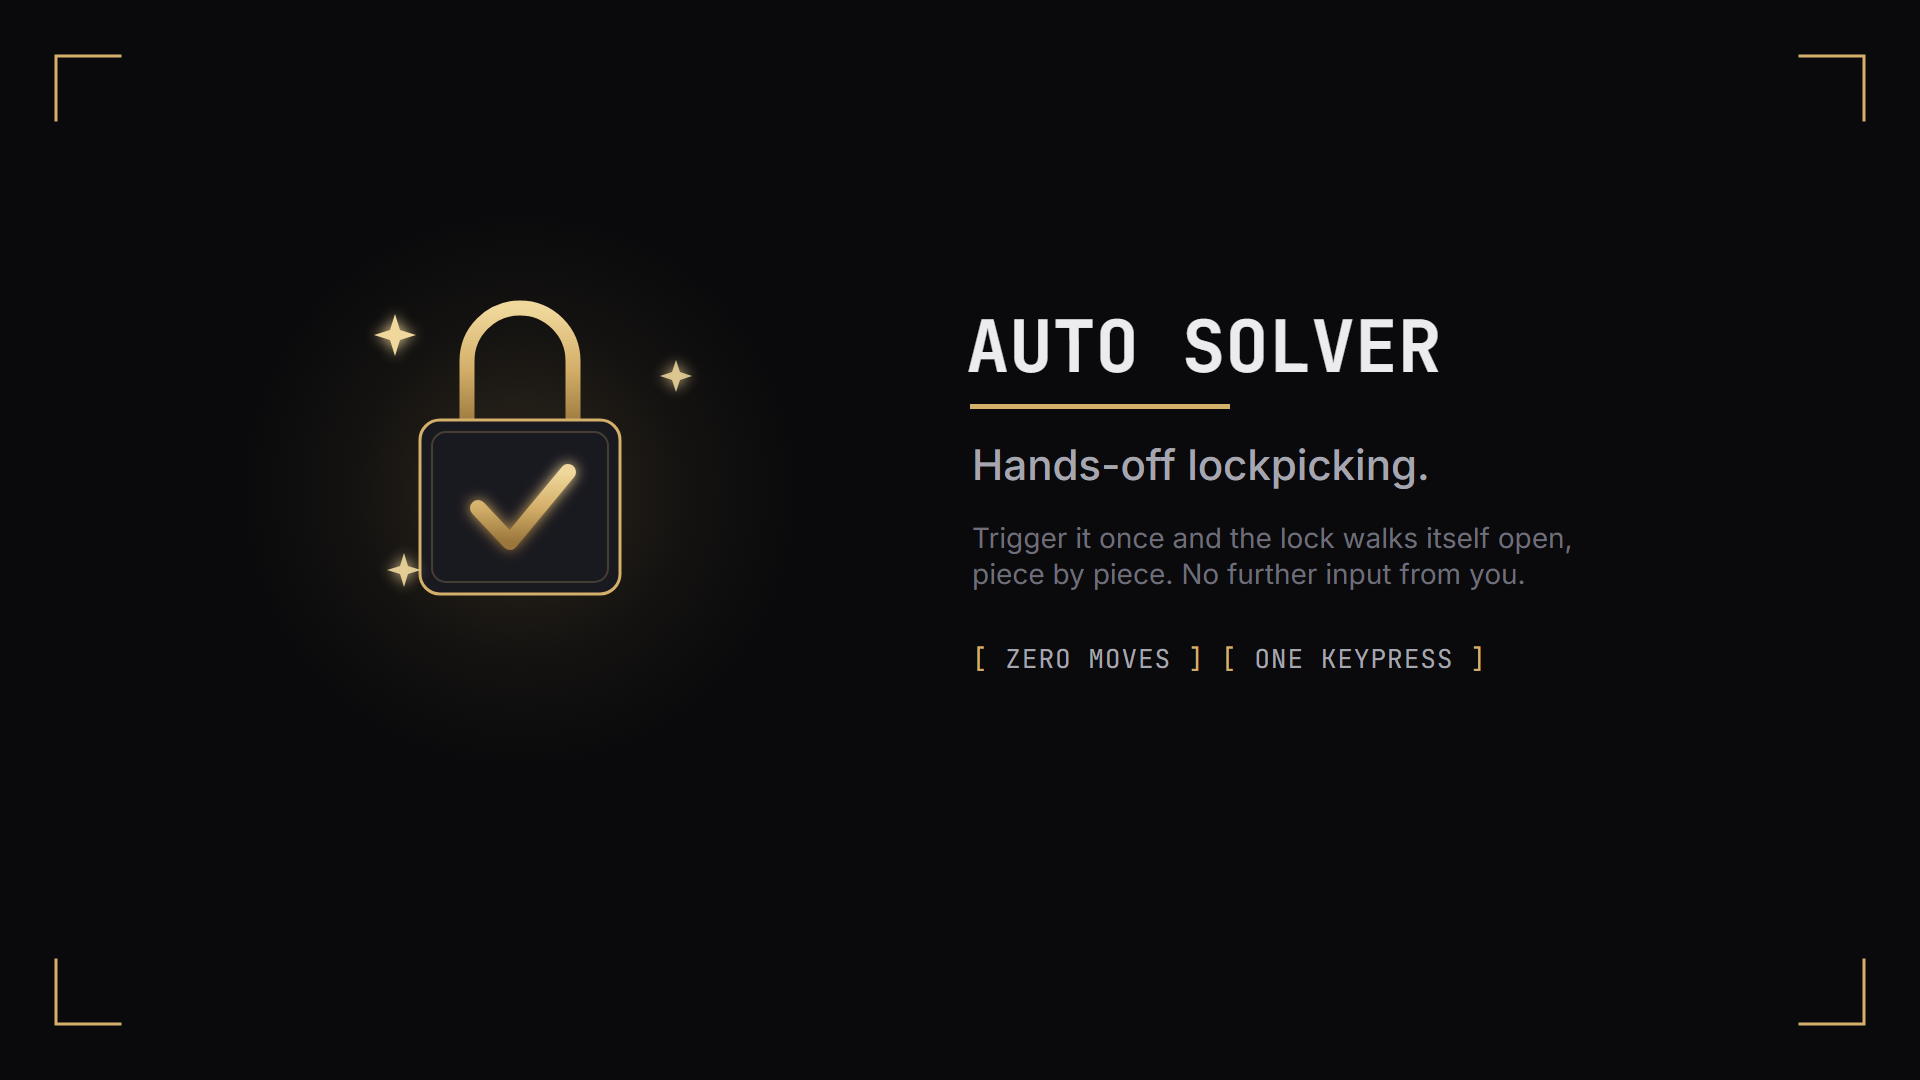
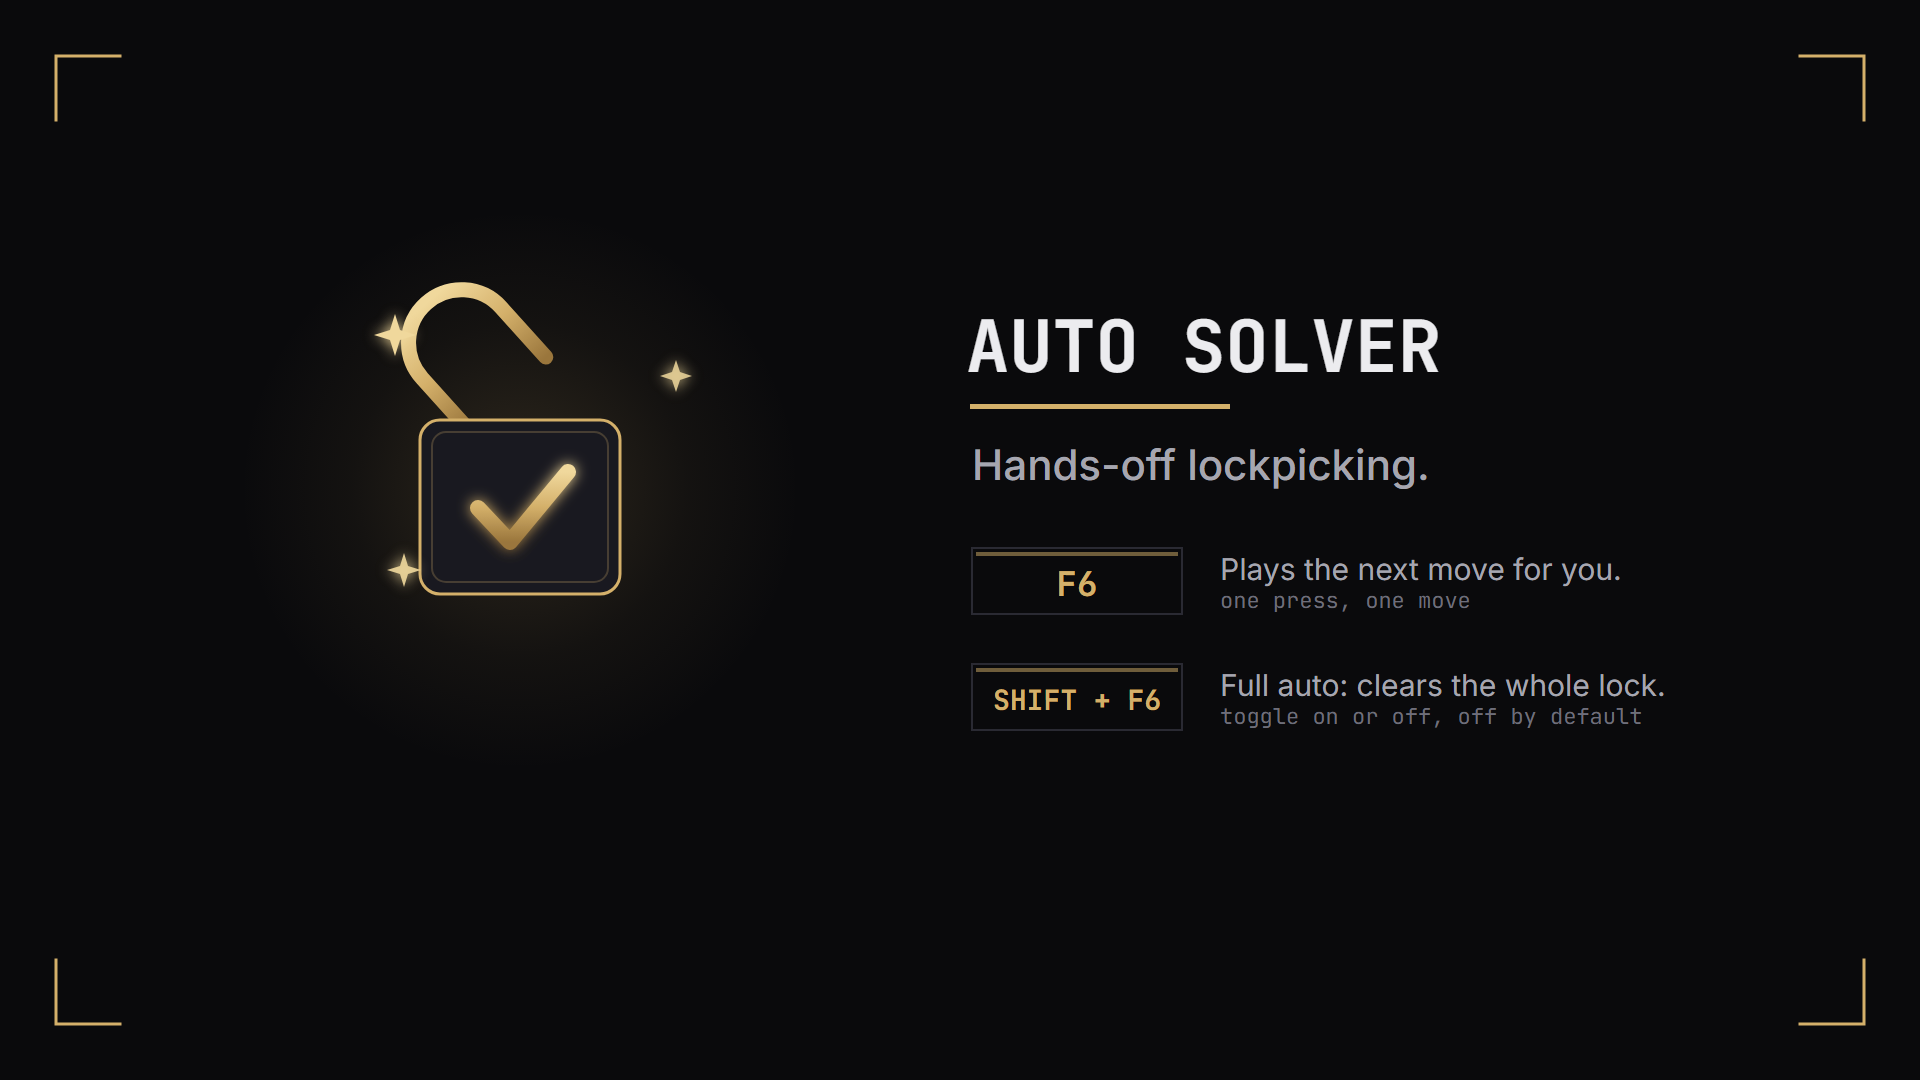
LockpickSettings: autosolve card shows the F6 / Shift+F6 hotkeys
Replace the placeholder badges with two keycap rows: F6 plays the next move,
Shift+F6 toggles full auto. Re-rendered the normal, bare and bare-inverted PNGs
(with the open-shackle "solved" lock).

Changed region(s): [[0.5, 0.4889, 0.875, 0.6722], [0.1875, 0.2444, 0.3125, 0.3972]]

diff --git a/brand/templates/gallery-autosolve.html b/brand/templates/gallery-autosolve.html
@@ -46,24 +46,32 @@
 
   <!-- copy -->
   <text x="132" y="480" class="sans ink1" font-size="42" font-weight="500">Hands-off lockpicking.</text>
-  <text x="132" y="548" class="sans ink2" font-size="28">Trigger it once and the lock walks itself open,</text>
-  <text x="132" y="584" class="sans ink2" font-size="28">piece by piece. No further input from you.</text>
 
-  <!-- badge -->
-  <text x="132" y="668" class="mono" font-size="26" letter-spacing="1">
-    <tspan class="acc">[</tspan><tspan class="ink1"> ZERO MOVES </tspan><tspan class="acc">]</tspan>
-    <tspan class="ink2" dx="20">  </tspan>
-    <tspan class="acc">[</tspan><tspan class="ink1"> ONE KEYPRESS </tspan><tspan class="acc">]</tspan>
-  </text>
+  <!-- F6: the next move, played for you -->
+  <rect x="132" y="548" width="210" height="66" fill="var(--bg-1)" class="s-line" style="stroke-width:2"/>
+  <rect x="136" y="552" width="202" height="4" fill="var(--accent)" fill-opacity="0.5"/>
+  <text x="237" y="596" class="mono acc" font-size="34" font-weight="700" text-anchor="middle">F6</text>
+  <text x="380" y="580" class="sans ink1" font-size="30">Plays the next move for you.</text>
+  <text x="380" y="608" class="mono ink2" font-size="22">one press, one move</text>
+
+  <!-- SHIFT + F6: full auto, toggleable -->
+  <rect x="132" y="664" width="210" height="66" fill="var(--bg-1)" class="s-line" style="stroke-width:2"/>
+  <rect x="136" y="668" width="202" height="4" fill="var(--accent)" fill-opacity="0.5"/>
+  <text x="237" y="710" class="mono acc" font-size="28" font-weight="700" text-anchor="middle">SHIFT + F6</text>
+  <text x="380" y="696" class="sans ink1" font-size="30">Full auto: clears the whole lock.</text>
+  <text x="380" y="724" class="mono ink2" font-size="22">toggle on or off, off by default</text>
   </g>
 
   <g id="visual">
   <!-- ===== auto-solved padlock, right ===== -->
   <circle cx="1420" cy="490" r="280" fill="url(#glowGrad)"/>
   <g transform="translate(-134,-100)">
-    <!-- shackle -->
-    <path d="M1501,528 L1501,461 A53,53 0 0 1 1607,461 L1607,528" fill="none"
-          stroke="url(#accentGrad)" stroke-width="15" stroke-linecap="round"/>
+    <!-- shackle, swung open: it is the AUTO SOLVER, so the lock is open. Pivots
+         at the left hole (1501,528); the free right leg lifts clear of the body. -->
+    <g transform="rotate(-42,1501,528)">
+      <path d="M1501,528 L1501,461 A53,53 0 0 1 1607,461 L1607,528" fill="none"
+            stroke="url(#accentGrad)" stroke-width="15" stroke-linecap="round"/>
+    </g>
     <!-- body -->
     <rect x="1454" y="520" width="200" height="174" rx="20" fill="var(--bg-2)" stroke="var(--accent)" stroke-width="3"/>
     <rect x="1466" y="532" width="176" height="150" rx="14" fill="none" stroke="var(--accent)" stroke-opacity="0.25" stroke-width="2"/>